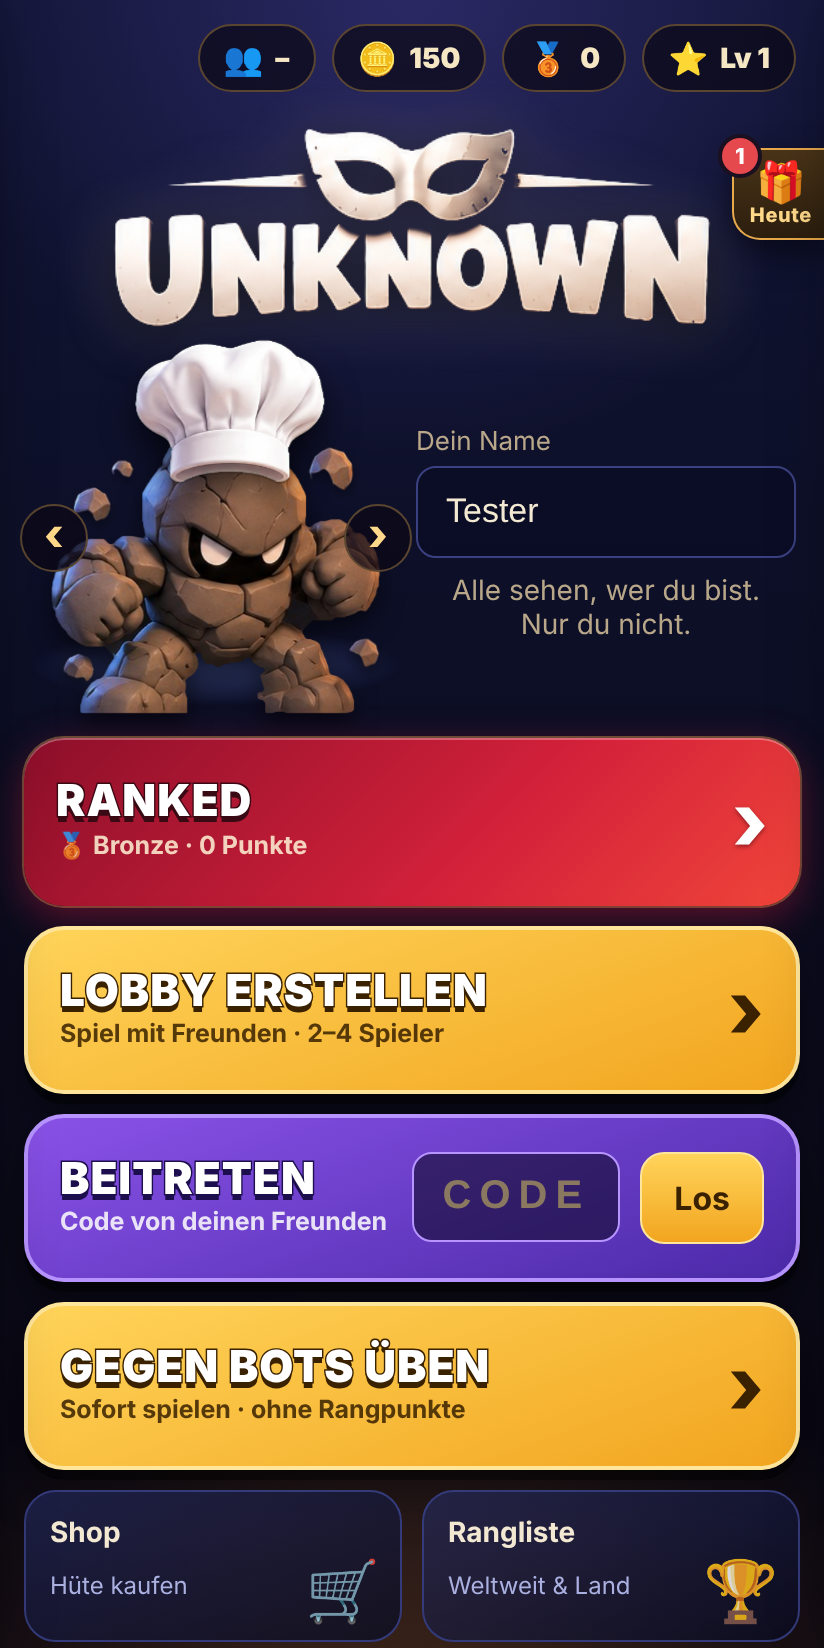
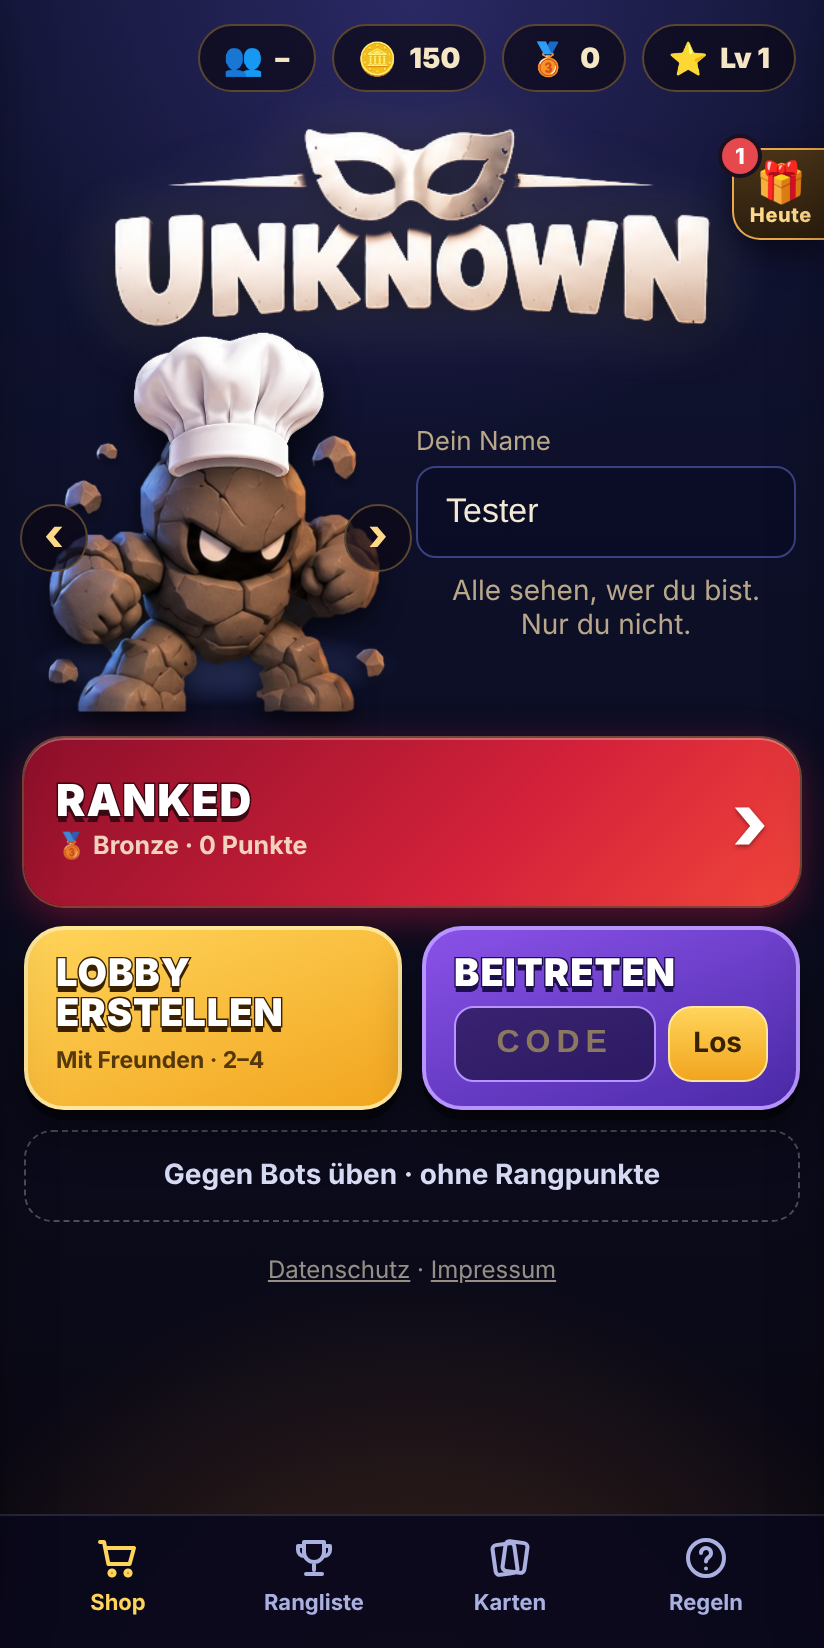
Startseite: Lobby/Beitreten nebeneinander, Bots als leiser Knopf, feste Tab-Leiste unten
Claude-Session: https://claude.ai/code/session_01XuEgEKXH5CVDx1qfGUkAmV

diff --git a/public/js/app.js b/public/js/app.js
@@ -387,20 +387,21 @@
         </div>
       </div>
       <button class="tile-big ranked" data-act="ranked"><span class="tb-txt"><b>Ranked</b><small>${lg ? `${lg.icon} ${lg.name} · ${me.rating} Punkte` : 'Steige in der Rangliste auf'}</small></span><i>›</i></button>
-      <button class="tile-big play" data-act="create"><span class="tb-txt"><b>Lobby erstellen</b><small>Spiel mit Freunden · 2–4 Spieler</small></span><i>›</i></button>
-      <div class="tile-big join">
-        <span class="tb-txt"><b>Beitreten</b><small>Code von deinen Freunden</small></span>
-        <input id="in-code" class="code" type="text" maxlength="4" placeholder="CODE" autocapitalize="characters" autocomplete="off" aria-label="Lobby-Code" value="${esc(prefill)}">
-        <button class="btn go" data-act="join" aria-label="Beitreten">Los</button>
+      <div class="home-row">
+        <button class="tile-big play hr" data-act="create"><span class="tb-txt"><b>Lobby erstellen</b><small>Mit Freunden · 2–4</small></span></button>
+        <div class="tile-big join hr">
+          <span class="tb-txt"><b>Beitreten</b></span>
+          <div class="hr-in"><input id="in-code" class="code" type="text" maxlength="4" placeholder="CODE" autocapitalize="characters" autocomplete="off" aria-label="Lobby-Code" value="${esc(prefill)}"><button class="btn go" data-act="join" aria-label="Beitreten">Los</button></div>
+        </div>
       </div>
-      <button class="tile-big play" data-act="botgame"><span class="tb-txt"><b>Gegen Bots üben</b><small>Sofort spielen · ohne Rangpunkte</small></span><i>›</i></button>
-      <div class="tiles">
-        <button class="tile" data-act="shop"><b>Shop</b><span>Hüte kaufen</span><em>🛒</em></button>
-        <button class="tile" data-act="leaderboard"><b>Rangliste</b><span>Weltweit &amp; Land</span><em>🏆</em></button>
-        <button class="tile" data-act="collection"><b>Deine Karten</b><span>${setDef().name} · 49</span><em>🃏</em></button>
-        <button class="tile" data-act="rules"><b>Spielregeln</b><span>Kurz erklärt</span><em>📜</em></button>
-      </div>
+      <button class="bots-btn" data-act="botgame">Gegen Bots üben · ohne Rangpunkte</button>
       <p class="legal"><a href="/datenschutz.html">Datenschutz</a> · <a href="/impressum.html">Impressum</a></p>
+      <nav class="tabbar" aria-label="Hauptmenü">
+        <button data-act="shop"><svg viewBox="0 0 24 24" aria-hidden="true"><path d="M3 4h2l2.2 11h10.6L20 7H6.2"/><circle cx="9" cy="19.5" r="1.3"/><circle cx="17" cy="19.5" r="1.3"/></svg>Shop</button>
+        <button data-act="leaderboard"><svg viewBox="0 0 24 24" aria-hidden="true"><path d="M7 4h10v5a5 5 0 01-10 0zM7 6H4v2a3 3 0 003 3M17 6h3v2a3 3 0 01-3 3M12 14v4M8 20h8"/></svg>Rangliste</button>
+        <button data-act="collection"><svg viewBox="0 0 24 24" aria-hidden="true"><rect x="4" y="5" width="11" height="15" rx="2" transform="rotate(-8 9.5 12.5)"/><rect x="9" y="4" width="11" height="15" rx="2" transform="rotate(8 14.5 11.5)"/></svg>Karten</button>
+        <button data-act="rules"><svg viewBox="0 0 24 24" aria-hidden="true"><circle cx="12" cy="12" r="9"/><path d="M9.5 9.5a2.5 2.5 0 114 2c-.9.6-1.5 1.1-1.5 2.2M12 17.2v.1"/></svg>Regeln</button>
+      </nav>
       ${me && me.daily ? `<button class="today-tab ${todayReady() ? 'ready' : ''}" data-act="today" aria-label="Heute: Tagesbelohnung und Aufgaben"><i>🎁</i><b>Heute</b>${todayReady() ? `<em class="dotbadge">${todayReady()}</em>` : ''}</button>` : ''}
       ${S.open ? '' : '<p class="hint center" id="conn-hint">Verbindung wird aufgebaut …</p>'}`;
   }

diff --git a/public/css/style.css b/public/css/style.css
@@ -1233,3 +1233,20 @@ body.drop-ready .table-surface { box-shadow: 0 0 0 1.2cqw rgba(110,230,140,.8), 
 .lb-card { width: min(340px, 82vw, 52vh); }
 .lb .zoom-names { color: #fff; margin: 4px 0 0; }
 .lb-hint { font-size: 12px; opacity: .6; color: #fff; }
+
+/* ---------- Startseite: zwei Karten + Tab-Leiste unten ---------- */
+.home-row { display: grid; grid-template-columns: 1fr 1fr; gap: 10px; }
+.tile-big.hr { min-height: 92px; padding: 12px 14px; flex-direction: column; align-items: stretch; justify-content: space-between; gap: 6px; }
+.tile-big.hr b { font-size: 19px; }
+.tile-big.hr small { font-size: 11.5px; }
+.tile-big.join.hr b { font-size: 19px; }
+.hr-in { display: flex; gap: 6px; }
+.tile-big.join.hr input.code { width: auto; min-width: 0; flex: 1; padding: 6px 4px; font-size: 16px; letter-spacing: 3px; }
+.tile-big.join.hr .btn.go { min-height: 38px; padding: 0 12px; font-size: 14px; }
+.bots-btn { width: 100%; min-height: 46px; border-radius: 14px; border: 1px dashed rgba(255,255,255,.28); background: transparent; color: #d8dcf5; font: 700 14px system-ui, sans-serif; cursor: pointer; }
+.tabbar { position: fixed; left: 0; right: 0; bottom: 0; z-index: 30; display: grid; grid-template-columns: repeat(4, 1fr); padding: 8px 10px calc(10px + env(safe-area-inset-bottom)); background: rgba(10,8,28,.94); border-top: 1px solid rgba(255,255,255,.12); backdrop-filter: blur(8px); }
+.tabbar button { display: flex; flex-direction: column; align-items: center; gap: 3px; border: 0; background: none; color: #aab0e0; font: 700 11px system-ui, sans-serif; cursor: pointer; min-height: 48px; }
+.tabbar button:active { color: #ffd45a; }
+.tabbar svg { width: 24px; height: 24px; fill: none; stroke: currentColor; stroke-width: 2; stroke-linecap: round; stroke-linejoin: round; }
+.tabbar button:first-child { color: #ffd45a; }
+#app:has(.tabbar) { padding-bottom: 96px; }

diff --git a/public/sw.js b/public/sw.js
@@ -1,7 +1,7 @@
 'use strict';
 /* UNKNOWN – Service Worker: App-Hülle und Bilder offline zwischenspeichern.
    Spielstand läuft ausschließlich über WebSocket und wird nie gecacht. */
-const VERSION = 'unknown-v77';
+const VERSION = 'unknown-v78';
 const SHELL = ['/', '/css/style.css', '/js/app.js', '/data/sets.json', '/data/avatars.json', '/manifest.webmanifest', '/assets/logo.png'];
 
 self.addEventListener('install', (e) => {
